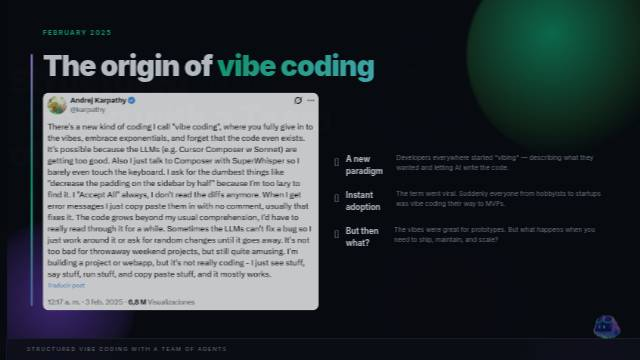
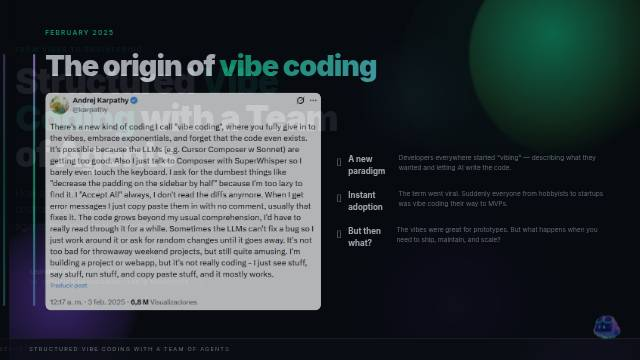
Add Skill #4 divider slide, update MeetSquadSlide layout
- Add Skill4Divider slide (Build and Manage a Team of Agents)
- Move alpha badge to right column on MeetSquadSlide
- Add squad init and copilot --agent squad commands
- Reduce command box padding
- Register new slide in deck.config.js

diff --git a/src/slides/Skill4Divider.module.css b/src/slides/Skill4Divider.module.css
@@ -1,0 +1,62 @@
+.slide {
+  background: var(--background);
+  padding: 0 0 44px 0;
+}
+
+.orb1 {
+  width: 520px;
+  height: 520px;
+  top: -120px;
+  left: -100px;
+  background: radial-gradient(
+    circle at 50% 50%,
+    var(--accent),
+    color-mix(in srgb, var(--accent) 30%, transparent) 50%,
+    transparent 70%
+  );
+}
+
+.orb2 {
+  width: 380px;
+  height: 380px;
+  bottom: -60px;
+  right: -40px;
+  background: radial-gradient(
+    circle at 50% 50%,
+    var(--purple-deep),
+    color-mix(in srgb, var(--purple-deep) 30%, transparent) 55%,
+    transparent 75%
+  );
+}
+
+.body {
+  position: relative;
+  z-index: 10;
+  display: flex;
+  flex-direction: column;
+  justify-content: center;
+  gap: 16px;
+}
+
+.eyebrow {
+  font-size: 13px;
+  font-weight: 600;
+  letter-spacing: 3px;
+  text-transform: uppercase;
+  color: var(--accent);
+}
+
+.title {
+  font-size: clamp(48px, 6vw, 80px);
+  font-weight: 900;
+  letter-spacing: -2px;
+  line-height: 1.05;
+  color: var(--foreground);
+}
+
+.highlight {
+  background: linear-gradient(90deg, var(--accent), var(--cyan));
+  -webkit-background-clip: text;
+  -webkit-text-fill-color: transparent;
+  background-clip: text;
+}

diff --git a/src/slides/Skill4Divider.jsx b/src/slides/Skill4Divider.jsx
@@ -1,0 +1,22 @@
+import { BottomBar, Slide } from '@deckio/deck-engine'
+import styles from './Skill4Divider.module.css'
+
+export default function Skill4Divider({ index, project }) {
+  return (
+    <Slide index={index} className={styles.slide}>
+      <div className="accent-bar" />
+      <div className={`orb ${styles.orb1}`} />
+      <div className={`orb ${styles.orb2}`} />
+
+      <div className={`${styles.body} content-frame content-gutter`}>
+        <p className={styles.eyebrow}>Skill #4</p>
+        <h1 className={styles.title}>
+          Build and Manage<br />
+          a Team of <span className={styles.highlight}>Agents</span>
+        </h1>
+      </div>
+
+      <BottomBar text="Structured Vibe Coding with a Team of Agents" />
+    </Slide>
+  )
+}

diff --git a/deck.config.js b/deck.config.js
@@ -10,6 +10,7 @@ import AgentsMdSlide from './src/slides/AgentsMdSlide.jsx'
 import SkillsAndPlans from './src/slides/SkillsAndPlans.jsx'
 import AwesomeCopilotSlide from './src/slides/AwesomeCopilotSlide.jsx'
 import SquadSlide from './src/slides/SquadSlide.jsx'
+import Skill4Divider from './src/slides/Skill4Divider.jsx'
 import MeetSquadSlide from './src/slides/MeetSquadSlide.jsx'
 import SquadArchSlide from './src/slides/SquadArchSlide.jsx'
 import DeckioSquadSlide from './src/slides/DeckioSquadSlide.jsx'
@@ -44,6 +45,7 @@ export default {
     CustomInstructions,
     SkillsAndPlans,
     AwesomeCopilotSlide,
+    Skill4Divider,
     SquadSlide,
     MeetSquadSlide,
     SquadArchSlide,
